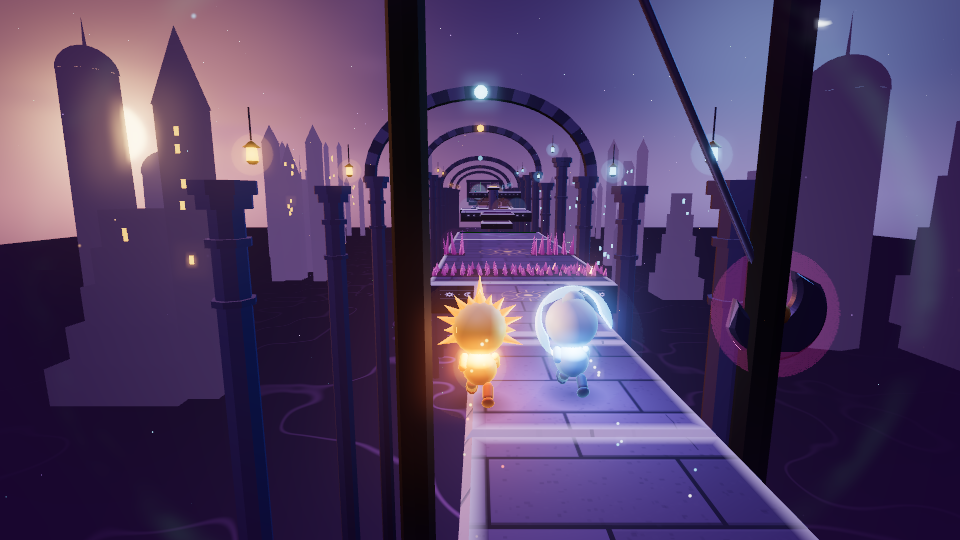
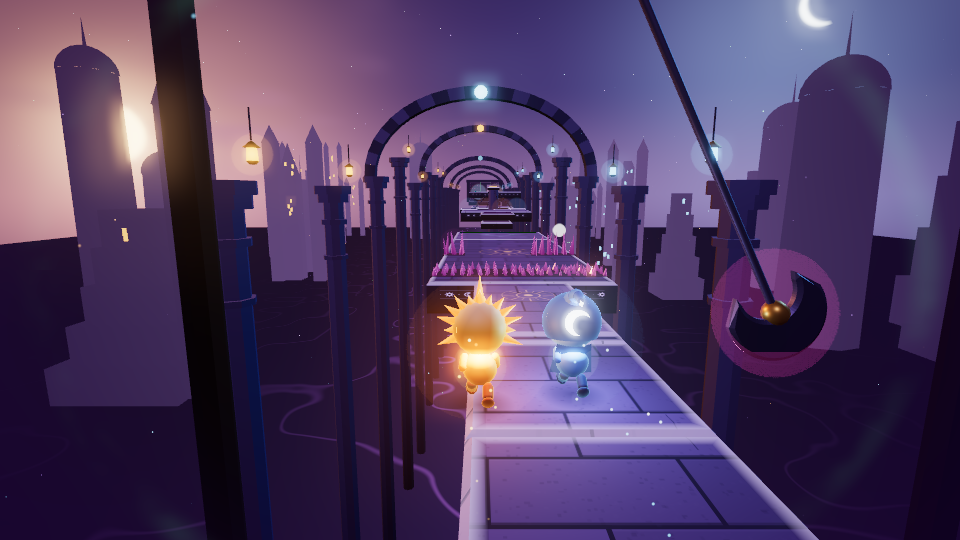
WIP Runner 3D renderer: plain stone material for posts and legs, ember cracks visible, smaller eclipse and gate glows

diff --git a/public/js/r3d/views.js b/public/js/r3d/views.js
@@ -278,6 +278,7 @@ function crumbleTex() {
     g.stroke();
   }
   _crumbleTex = new THREE.CanvasTexture(c);
+  _crumbleTex.wrapS = _crumbleTex.wrapT = THREE.RepeatWrapping;
   return _crumbleTex;
 }
 VIEWS.crumble = {
@@ -285,7 +286,7 @@ VIEWS.crumble = {
     const [, , w, d] = mid(o);
     const mat = patchWorld(new THREE.MeshStandardMaterial({ vertexColors: true, map: materials().stone.map, roughness: 0.85,
       emissive: 0xff6a20, emissiveMap: crumbleTex(), emissiveIntensity: 0.6 }), { glow: true, key: 'crum' });
-    const grp = stoneSlab(o, idx, { h: 0.5, inlay: false, runes: false, glow: 0.4, top: col(0x8a6f8e), side: col(0x4a3048), mat });
+    const grp = stoneSlab(o, idx, { h: 0.5, inlay: false, runes: false, glow: 0.4, top: col(0x7a5a6e), side: col(0x3e2238), mat });
     grp.userData.mats = [mat];
     grp.userData.base = grp.position.clone();
     grp.userData.w = w; grp.userData.d = d; grp.userData.lastSt = 0;
@@ -349,7 +350,7 @@ VIEWS.eclipse = {
   },
   update(v, o, st, pose, ctx) {
     const u = v.userData;
-    ctx.glow.add(u.cx, o.y + 0.05, -u.cz, Math.max(u.w, u.d) * 1.6, u.el ? 0x70c8ff : 0xffa040, 0.24 + 0.05 * Math.sin(ctx.time * 2.5 + ctx.idx));
+    ctx.glow.add(u.cx, o.y + 0.05, -u.cz, Math.max(u.w, u.d) * 1.05, u.el ? 0x70c8ff : 0xffa040, 0.12 + 0.03 * Math.sin(ctx.time * 2.5 + ctx.idx));
     v.children[1].children[0].material.opacity = 0.22 + 0.1 * Math.sin(ctx.time * 3 + ctx.idx);
   },
 };
@@ -430,7 +431,7 @@ VIEWS.pendulum = {
     const cap = new THREE.Mesh(capG, materials().gold); cap.position.set(o.px, o.py, -o.pz); root.add(cap);
     const legH = o.py + 0.45 + 30;
     const legG = new THREE.CylinderGeometry(0.22, 0.28, legH, 8).translate(0, -legH / 2, 0);
-    for (const sx of [-1, 1]) { const l = new THREE.Mesh(legG, materials().stoneFlat); l.position.set(o.px + sx * span / 2, o.py + 0.3, -o.pz); root.add(l); }
+    for (const sx of [-1, 1]) { const l = new THREE.Mesh(legG, materials().stonePlain); l.position.set(o.px + sx * span / 2, o.py + 0.3, -o.pz); root.add(l); }
     root.userData = { geos: [rodG, bladeG, edgeG, hubG, lintG, capG, legG], piv };
     void idx;
     return root;
@@ -490,7 +491,7 @@ VIEWS.gate = {
     const vineMat = patchWorld(new THREE.MeshStandardMaterial({ color: 0x2a1238, emissive: 0x4a1048, emissiveIntensity: 0.8, roughness: 0.7, transparent: true, opacity: 0.75 }), { key: 'vine' });
     const vines = [0, 1].map(() => { const m = new THREE.Mesh(vineG, vineMat); m.position.set(0, o.y, zc); root.add(m); return m; });
     const postG = new THREE.BoxGeometry(0.7, th + 0.8, 0.9).translate(0, (th + 0.8) / 2 - 0.4, 0);
-    for (const x of [o.x0 - 0.35, o.x1 + 0.35]) { const p = new THREE.Mesh(postG, materials().stoneFlat); p.position.set(x, o.y, zc); root.add(p); }
+    for (const x of [o.x0 - 0.35, o.x1 + 0.35]) { const p = new THREE.Mesh(postG, materials().stonePlain); p.position.set(x, o.y, zc); root.add(p); }
     const lintG = slabGeometry(w + 1.6, 0.9, 0.6, { glow: 0.5 });
     const lint = new THREE.Mesh(lintG, materials().stone); lint.position.set((o.x0 + o.x1) / 2, o.y + th + 0.6, zc); root.add(lint);
     // glowing edges of the opening
@@ -520,8 +521,7 @@ VIEWS.gate = {
     });
     u.im.count = k; u.im.instanceMatrix.needsUpdate = true;
     u.edges[0].position.x = gx - gw; u.edges[1].position.x = gx + gw;
-    for (const x of [gx - gw, gx + gw]) ctx.glow.add(x, o.y + 1.2, u.zc, 1.6, 0x60ff9a, 0.35);
-    ctx.glow.add(gx, o.y + 0.9, u.zc, gw * 2.4, 0x9dffb9, 0.12);
+    for (const x of [gx - gw, gx + gw]) for (const h of [0.6, 1.8, 3.0]) ctx.glow.add(x, o.y + h, u.zc, 0.7, 0x60ff9a, 0.25);
   },
 };
 

diff --git a/public/js/r3d/kit.js b/public/js/r3d/kit.js
@@ -272,6 +272,7 @@ export function materials() {
     blending: THREE.AdditiveBlending, depthWrite: false, polygonOffset: true, polygonOffsetFactor: -2 }), { additive: true, key: 'im' });
   _mats.runes = patchWorld(new THREE.MeshBasicMaterial({ map: T.runes, color: col(0xc9b6ff).multiplyScalar(1.3), transparent: true,
     blending: THREE.AdditiveBlending, depthWrite: false, polygonOffset: true, polygonOffsetFactor: -2 }), { additive: true, key: 'ru' });
+  _mats.stonePlain = patchWorld(new THREE.MeshStandardMaterial({ color: 0x5c5084, roughness: 0.85, metalness: 0.05, flatShading: true }), { key: 'sp' });
   _mats.metal = patchWorld(new THREE.MeshStandardMaterial({ color: 0x6e6390, roughness: 0.45, metalness: 0.7 }), { key: 'me' });
   _mats.gold = patchWorld(new THREE.MeshStandardMaterial({ color: 0xc89a4a, roughness: 0.35, metalness: 0.8, emissive: 0x2a1500 }), { key: 'go' });
   return _mats;

diff --git a/public/js/r3d/characters.js b/public/js/r3d/characters.js
@@ -187,7 +187,7 @@ export class Character {
     const pos = capeG.attributes.position;
     for (let k = 0; k < pos.count; k++) { const x = pos.getX(k), y = pos.getY(k); pos.setZ(k, 0.09 * Math.cos(x / 0.23 * 1.3) * (1 + y)); pos.setX(k, x * (1 - y * 0.55)); }
     capeG.computeVertexNormals();
-    grad(capeG, -0.52, 0, 0x4f86e0, 0x1b2f6e);
+    grad(capeG, -0.52, 0, 0x2a4fa8, 0x14245a);
     const cape = this.cape = new THREE.Mesh(capeG, hoodMat);
     cape.position.set(0, 0.74, 0.17);
     this.body.add(cape);
